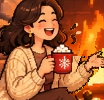
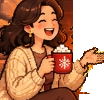
Fix hearth girl foreground hand layer above fire

Changed region(s): [[0.6346, 0.0, 1.0, 1.0]]

diff --git a/src/components/LivingSceneCanvas.jsx b/src/components/LivingSceneCanvas.jsx
@@ -149,12 +149,14 @@ export default function LivingSceneCanvas({
     boySprites.sip.src = './assets/boy_sip.png';
     boySprites.lookBack.src = './assets/boy_look_back.png';
 
-    // 2. 載入火爐旁左邊女生的三態動作圖 (繪製於 x=60, y=332)
+    // 2. 載入火爐旁左邊女生的背景火膛底圖與三態前景動作圖 (繪製於 x=60, y=332)
     const girlSprites = {
+      bgClean: new Image(),
       talk: new Image(),
       handDown: new Image(),
       drink: new Image()
     };
+    girlSprites.bgClean.src = './assets/girl_bg_clean.png';
     girlSprites.talk.src = './assets/girl_talk.png';
     girlSprites.handDown.src = './assets/girl_hand_down.png';
     girlSprites.drink.src = './assets/girl_drink.png';
@@ -379,8 +381,9 @@ export default function LivingSceneCanvas({
           ? boy1Sprites.handDown
           : boy1Sprites.talk;
 
-      if (currentGirlImg && currentGirlImg.complete && currentGirlImg.naturalWidth > 0) {
-        fCtx.drawImage(currentGirlImg, 60, 332);
+      // 先繪製已移除舉起手掌的乾淨壁爐火膛底圖，讓動態火焰在手掌【背後】燃燒
+      if (girlSprites.bgClean && girlSprites.bgClean.complete && girlSprites.bgClean.naturalWidth > 0) {
+        fCtx.drawImage(girlSprites.bgClean, 60, 332);
       }
       if (currentBoy1Img && currentBoy1Img.complete && currentBoy1Img.naturalWidth > 0) {
         fCtx.drawImage(currentBoy1Img, 228, 316);
@@ -388,7 +391,7 @@ export default function LivingSceneCanvas({
 
       // 計算火爐旁兩位角色當前馬克杯口的即時座標（隨舉杯喝飲料或手放下同步升降！）
       const girlMugOrigin =
-        girlAction === 'DRINK' ? { x: 120, y: 365 } : { x: 122, y: 377 };
+        girlAction === 'DRINK' ? { x: 120, y: 369 } : { x: 122, y: 377 };
       const boy1MugOrigin =
         boy1Action === 'DRINK'
           ? { x: 294, y: 356 }
@@ -561,6 +564,11 @@ export default function LivingSceneCanvas({
         fCtx.fillStyle = `rgba(255, 220, 90, ${alpha.toFixed(2)})`;
         fCtx.fillRect(Math.round(ex), Math.round(ey), 2, 2);
       });
+
+      // 在壁爐火焰與火星繪製完畢後，將左邊女生的 100% 實心前景圖層疊加在火焰最上方，確保手勢放下或抬起都絕不被火擋住！
+      if (currentGirlImg && currentGirlImg.complete && currentGirlImg.naturalWidth > 0) {
+        fCtx.drawImage(currentGirlImg, 60, 332);
+      }
 
       // (2E) 三杯熱可可的冉冉像素白煙 (即時跟隨三位角色手中杯口的最新位置！)
       steamParticles.forEach((sp) => {

diff --git a/scripts/fix_girl_hand_foreground.py b/scripts/fix_girl_hand_foreground.py
@@ -1,0 +1,194 @@
+from PIL import Image
+import math
+
+orig = Image.open("public/assets/scene_clean.png").convert("RGBA")
+orig_px = orig.load()
+
+GX1, GY1, GW, GH = 60, 332, 104, 100
+girl_crop = orig.crop((GX1, GY1, GX1 + GW, GY1 + GH))
+gc_px = girl_crop.load()
+
+# ==============================================================================
+# 第一步：精確建立女生「左手掌 + 手腕袖口」(gy=371..404, gx=135..163) 的 100% 實心遮罩
+# 保持袖子下半部 (gy > 400, gx < 148) 原圖不動，讓袖口與紅馬克杯右側 100% 原生無縫連接！
+# ==============================================================================
+left_hand_solid = Image.new("RGBA", (GW, GH), (0, 0, 0, 0))
+lhs_px = left_hand_solid.load()
+
+for gy in range(371, 405):
+    ly = gy - GY1
+    if gy <= 391:
+        dark_xs = []
+        for gx in range(138, 164):
+            r, g, b, _ = orig_px[gx, gy]
+            if r < 178 and g < 98 and b < 58:
+                if not (gx <= 140 and gy <= 375):
+                    dark_xs.append(gx)
+        if not dark_xs:
+            continue
+        xmin, xmax = min(dark_xs), max(dark_xs)
+        for gx in range(xmin, xmax + 1):
+            r, g, b, _ = orig_px[gx, gy]
+            # 排除大拇指與食指之間虎口上方的亮黃色火焰像素 (gy=371..377, gx=147..158)
+            if gy <= 377 and 147 <= gx <= 158:
+                if r > 205 and g > 135 and b < 90:
+                    continue
+            # 排除食指尖右上角外的火焰像素
+            if gy <= 376 and gx >= 158 and r > 205 and g > 135:
+                continue
+            lhs_px[gx - GX1, ly] = orig_px[gx, gy]
+    else:
+        # gy = 392..404：手腕與前袖口上半部 (gx=135..153)
+        right_edge = 152 - int((gy - 392) * 0.4)
+        for gx in range(140, 155):
+            r, g, b, _ = orig_px[gx, gy]
+            if r < 130 and g < 70 and b < 45:
+                right_edge = max(right_edge, gx)
+        left_edge = 135
+        for gx in range(left_edge, right_edge + 1):
+            lhs_px[gx - GX1, ly] = orig_px[gx, gy]
+
+# 建立完整左臂遮罩 (含下半部固定不動的袖子 gy=392..425，供前景圖層保護整條手臂不被火蓋住)
+full_arm_mask = left_hand_solid.copy()
+fam_px = full_arm_mask.load()
+for gy in range(386, 426):
+    ly = gy - GY1
+    right_edge = 152 - int(max(0, gy - 392) * 0.42)
+    for gx in range(135, 155):
+        r, g, b, _ = orig_px[gx, gy]
+        if r < 130 and g < 70 and b < 45:
+            right_edge = max(right_edge, gx)
+    left_edge = 131 if gy <= 404 else 124
+    for gx in range(left_edge, right_edge + 1):
+        fam_px[gx - GX1, ly] = orig_px[gx, gy]
+
+# ==============================================================================
+# 第二步：建立「已移除舉起左手掌」的乾淨壁爐火膛背景底圖 girl_bg_clean.png
+# ==============================================================================
+girl_bg_clean = girl_crop.copy()
+gbc_px = girl_bg_clean.load()
+
+for gy in range(368, 405):
+    for gx in range(136, 164):
+        lx, ly = gx - GX1, gy - GY1
+        if lhs_px[lx, ly][3] > 0 or (368 <= gy <= 393 and gx >= 139):
+            # 將上方 gy=345..368 的真實火焰與火膛自然向下延展
+            t = max(0.0, min(1.0, (gy - 368) / 28.0))
+            src_gy = int(round(368 - t * 14))
+            src_gx = min(163, max(139, int(round(gx + t * 8))))
+            gbc_px[lx, ly] = orig_px[src_gx, max(345, min(420, src_gy))]
+
+girl_bg_clean.save("public/assets/girl_bg_clean.png")
+
+# ==============================================================================
+# 第三步：建立「純前景角色圖層」（將右側壁爐火焰背景挖空為透明 alpha=0，
+# 讓 Canvas 動態火焰在手掌【背後】燃燒，前景實心手掌與袖子 100% 壓在火焰最上方！）
+# ==============================================================================
+def make_foreground_only(base_girl_img, active_arm_mask):
+    out = base_girl_img.copy()
+    opx = out.load()
+    am_px = active_arm_mask.load()
+
+    for gy in range(332, 432):
+        ly = gy - GY1
+        for gx in range(132, 164):
+            lx = gx - GX1
+            # 1. 若屬於當前姿勢的實心手掌與袖子遮罩，100% 保留為不透明前景！
+            if am_px[lx, ly][3] > 0:
+                opx[lx, ly] = am_px[lx, ly]
+                continue
+            # 2. 若屬於左下角女生的深棕色長褲膝蓋 (gy >= 413 and gx <= 138)，保留！
+            if gy >= 413 and gx <= 138:
+                continue
+            # 3. 其餘在 gx >= 133 的壁爐火膛與火焰背景設為完全透明 (0,0,0,0)！
+            if gx >= 133:
+                opx[lx, ly] = (0, 0, 0, 0)
+    return out
+
+# 1. girl_talk.png (左手抬起說話前景圖)
+girl_talk_fg = make_foreground_only(girl_crop, full_arm_mask)
+girl_talk_fg.save("public/assets/girl_talk.png")
+
+# 2. girl_hand_down.png (左手腕與手掌繞袖口樞紐 (138, 396) 順時針往下擺動 22 度！袖子下半部與紅杯右側 100% 原生無縫！)
+piv_x, piv_y = 138 - GX1, 396 - GY1
+rad = math.radians(22)
+cos_a, sin_a = math.cos(rad), math.sin(rad)
+
+down_arm_mask = Image.new("RGBA", (GW, GH), (0, 0, 0, 0))
+dam_px = down_arm_mask.load()
+
+# 先放入下半部固定不動的米白毛衣袖子 (gy=394..425, gx=124..149)
+for gy in range(394, 426):
+    ly = gy - GY1
+    for gx in range(124, 150):
+        lx = gx - GX1
+        if fam_px[lx, ly][3] > 0:
+            dam_px[lx, ly] = fam_px[lx, ly]
+
+# 疊加繞手腕樞紐順時針往下旋轉 22 度的實心手掌與袖口
+for y in range(GH):
+    for x in range(GW):
+        dx, dy = x - piv_x, y - piv_y
+        sx = int(round(piv_x + dx * cos_a + dy * sin_a))
+        sy = int(round(piv_y - dx * sin_a + dy * cos_a))
+        if 0 <= sx < GW and 0 <= sy < GH and lhs_px[sx, sy][3] > 0:
+            dam_px[x, y] = lhs_px[sx, sy]
+
+girl_down_base = girl_bg_clean.copy()
+girl_down_base.alpha_composite(down_arm_mask)
+girl_down_fg = make_foreground_only(girl_down_base, down_arm_mask)
+girl_down_fg.save("public/assets/girl_hand_down.png")
+
+# 3. girl_drink.png (右手舉紅馬克杯到嘴邊喝熱可可 dx=-2, dy=-8 + 左手自然放下在腿邊)
+girl_drink_base = girl_down_base.copy()
+gdr_px = girl_drink_base.load()
+
+g_cup = Image.new("RGBA", (GW, GH), (0, 0, 0, 0))
+gcup_px = g_cup.load()
+for gy in range(374, 409):
+    for gx in range(96, 134):
+        lx, ly = gx - GX1, gy - GY1
+        r, g, b, a = gc_px[lx, ly]
+        take = False
+        if 108 <= gx <= 133 and 374 <= gy <= 405:
+            if not (gx <= 112 and gy <= 378 and r < 85):
+                take = True
+        if 96 <= gx <= 115 and 384 <= gy <= 408:
+            take = True
+        if take:
+            gcup_px[lx, ly] = (r, g, b, 255)
+
+# 修補紅馬克杯上移 8px 後底部 (gy=396..408, gx=96..133) 露出的 8px 縫隙（直接從正下方真實像素平移延伸，不用 % 重複！）
+for gy in range(395, 409):
+    for gx in range(96, 134):
+        lx, ly = gx - GX1, gy - GY1
+        if gcup_px[lx, ly][3] > 0:
+            if gx <= 106:
+                gdr_px[lx, ly] = orig_px[gx - 3, min(416, gy + 8)]
+            elif gx <= 115:
+                # 棕色內搭衣真實顏色 (採樣自 gx=104, gy=380 胸口棕色內搭)
+                gdr_px[lx, ly] = orig_px[101 + (gx - 107) // 2, 379 + (gy - 395) // 2]
+            else:
+                # 左前臂米白毛衣真實像素 (直接從右下方 gx+6, gy+6 延伸，完全自然無方格！)
+                gdr_px[lx, ly] = orig_px[min(144, gx + 6), min(416, gy + 6)]
+
+up_cup = Image.new("RGBA", (GW, GH), (0, 0, 0, 0))
+uc_px = up_cup.load()
+for y in range(GH):
+    for x in range(GW):
+        sx, sy = x - (-2), y - (-8)
+        if 0 <= sx < GW and 0 <= sy < GH and gcup_px[sx, sy][3] > 0:
+            uc_px[x, y] = gcup_px[sx, sy]
+
+girl_drink_base.alpha_composite(up_cup)
+girl_drink_fg = make_foreground_only(girl_drink_base, down_arm_mask)
+girl_drink_fg.save("public/assets/girl_drink.png")
+
+# 產生 3 倍放大預覽圖檢查
+prev = Image.new("RGBA", (GW * 3, GH), (30, 20, 15, 255))
+for i, fg in enumerate([girl_talk_fg, girl_down_fg, girl_drink_fg]):
+    comp = girl_bg_clean.copy()
+    comp.alpha_composite(fg)
+    prev.paste(comp, (i * GW, 0))
+prev.resize((GW * 3 * 3, GH * 3), Image.NEAREST).save("public/assets/debug_girl_hand_check.png")
+print("Perfected wrist-pivoted solid foreground girl sprites!")
